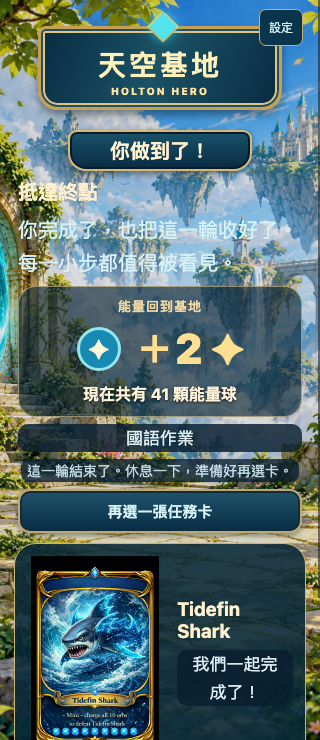
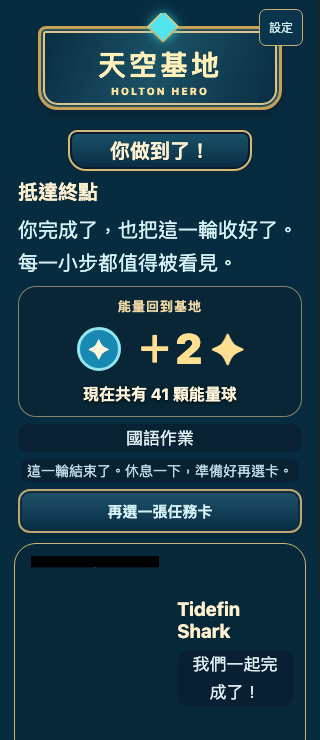
test: verify translucent reward panel on public site

diff --git a/reports/compact-reward/README.md b/reports/compact-reward/README.md
@@ -1,3 +1,4 @@
 # Compact translucent completion reward — 2026-10-19
 User requested smaller/transparent reward block so scenery remains visible. RewardArrival now centered max-width 300, translucent navy alpha .64, subtle gold border, orb and reward side by side. Balance remains bold with subtle shadow. Existing motion/skip/reduced-motion and numeric rules unchanged.
 TypeScript and scoped lint pass; web export succeeds. Isolated Chrome 390/320 screenshots inspected, block 300x131 at 390 wide, no horizontal overflow at 320. Synthetic +2 / balance41 preserved without writes. Not physical iPhone testing.
+Public Pages85db36f built; isolated public Chrome visual check confirms300x131 panel, alpha.64, correct+2/balance41, 320px no overflow.
